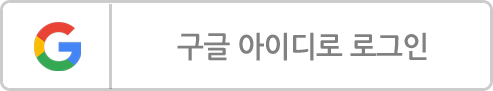
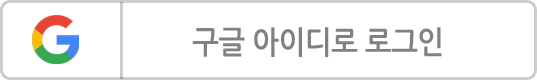
chore : 소셜 로그인 사진 변경 및 배치 변경

Changed region(s): [[0.3347, 0.325, 0.8824, 0.725], [0.0609, 0.175, 0.1826, 0.8], [0.213, 0.025, 0.2434, 0.975]]

diff --git a/front/src/components/user/Login/LoginForm.jsx b/front/src/components/user/Login/LoginForm.jsx
@@ -13,6 +13,7 @@ import {
   StyledInputContainer,
   StyledOutLine,
   StyledSocialImg,
+  SocialLoginWrapper,
 } from "./LoginForm.style";
 
 function LoginForm() {
@@ -127,25 +128,35 @@ function LoginForm() {
               회원가입
             </StyledButton>
           </StyledButtonWrapper>
-          <a
-            href={`https://kauth.kakao.com/oauth/authorize?response_type=code&client_id=${process.env.REACT_APP_KAKAO_ID}&redirect_uri=${process.env.REACT_APP_HOST}/oauth/kakao`}
-          >
-            <StyledSocialImg
-              src="socialLoginImg/kakao.png"
-              alt="kakao"
-              style={{ width: "200px", height: "auto" }}
-            />
-          </a>
-          <a
-            href={`https://nid.naver.com/oauth2.0/authorize?response_type=code&client_id=${process.env.REACT_APP_NAVER_ID}&redirect_uri=${process.env.REACT_APP_HOST}/oauth/naver`}
-          >
-            <StyledSocialImg src="socialLoginImg/naver.png" alt="naver" />
-          </a>
-          <a
-            href={`https://accounts.google.com/o/oauth2/auth?client_id=${process.env.REACT_APP_GOOGLE_ID}&redirect_uri=${process.env.REACT_APP_HOST}/oauth/google&scope=https://www.googleapis.com/auth/userinfo.email https://www.googleapis.com/auth/userinfo.profile&response_type=code`}
-          >
-            <StyledSocialImg src="socialLoginImg/google.png" alt="google" />
-          </a>
+          <SocialLoginWrapper>
+            <a
+              href={`https://kauth.kakao.com/oauth/authorize?response_type=code&client_id=${process.env.REACT_APP_KAKAO_ID}&redirect_uri=${process.env.REACT_APP_HOST}/oauth/kakao`}
+            >
+              <StyledSocialImg
+                src="socialLoginImg/kakao.png"
+                alt="kakao"
+                style={{ width: "250px", height: "auto" }}
+              />
+            </a>
+            <a
+              href={`https://nid.naver.com/oauth2.0/authorize?response_type=code&client_id=${process.env.REACT_APP_NAVER_ID}&redirect_uri=${process.env.REACT_APP_HOST}/oauth/naver`}
+            >
+              <StyledSocialImg
+                src="socialLoginImg/naver.png"
+                alt="naver"
+                style={{ width: "250px", height: "auto" }}
+              />
+            </a>
+            <a
+              href={`https://accounts.google.com/o/oauth2/auth?client_id=${process.env.REACT_APP_GOOGLE_ID}&redirect_uri=${process.env.REACT_APP_HOST}/oauth/google&scope=https://www.googleapis.com/auth/userinfo.email https://www.googleapis.com/auth/userinfo.profile&response_type=code`}
+            >
+              <StyledSocialImg
+                src="socialLoginImg/google.png"
+                alt="google"
+                style={{ width: "250px", height: "auto" }}
+              />
+            </a>
+          </SocialLoginWrapper>
         </StyledOutLine>
       </StyledInputLayout>
     </StyledContainer>

diff --git a/front/src/components/user/Login/LoginForm.style.jsx b/front/src/components/user/Login/LoginForm.style.jsx
@@ -28,6 +28,13 @@ export const StyledOutLine = styled(Box)`
   width: 300px;
 `;
 
+export const SocialLoginWrapper = styled.div`
+  display: flex;
+  flex-direction: column;
+  align-items: center;
+  margin-top: 1rem;
+`;
+
 export const StyledInputContainer = styled.div`
   margin-bottom: 1rem;
 `;
